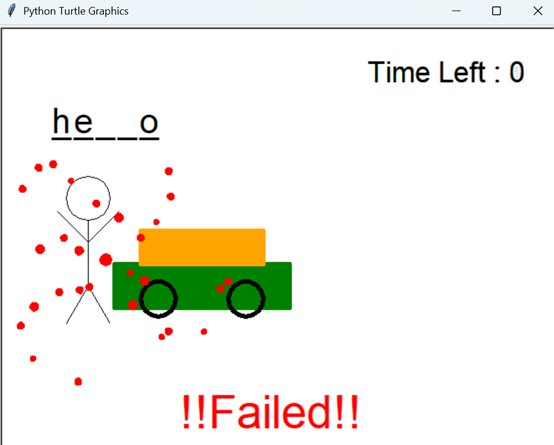
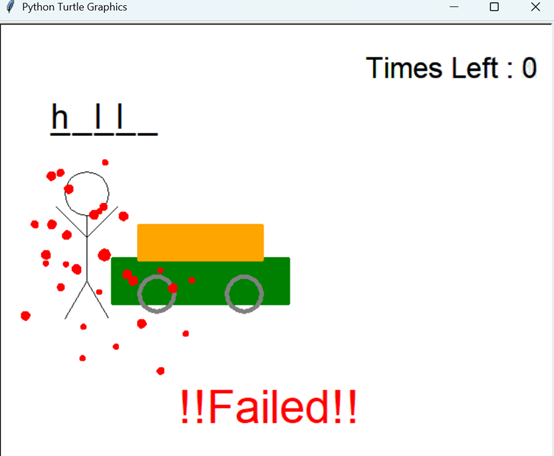
change tire color

diff --git a/hangman.py b/hangman.py
@@ -30,9 +30,9 @@ def left_time(time):
     goto(100, 200)
     pendown()
     color("white")   #用白色覆蓋掉本來的left time
-    write("Time Left : " + str(time + 1), align='left', font=('Arial', 25, 'normal'))
+    write("Times Left : " + str(time + 1), align='left', font=('Arial', 25, 'normal'))
     color("black")   #再用黑色寫上剩餘的left time
-    write("Time Left : " + str(time), align='left', font=('Arial', 25, 'normal'))
+    write("Times Left : " + str(time), align='left', font=('Arial', 25, 'normal'))
 
 
 
@@ -84,7 +84,7 @@ def answer(solution):
     goto(-115, -200)
     pendown()
     color('Red')
-    write("!!Failed!!", align='left', font=('Arial', 40, 'normal'))
+    write("!!Failed!!", align='left', font=('Arial', 40, 'normal'))   # 顯示失敗訊息
 
 
 

diff --git a/drawing.py b/drawing.py
@@ -78,7 +78,7 @@ def last_car():
     penup()
     goto(-140, -60)
     pendown()
-    color("black")
+    color("gray")
     circle(20)
 
     penup()
